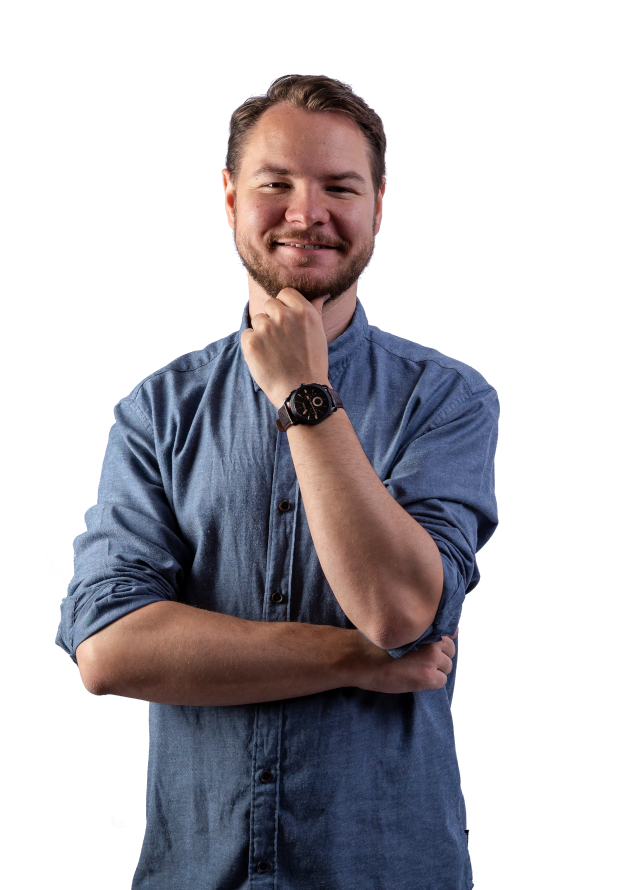
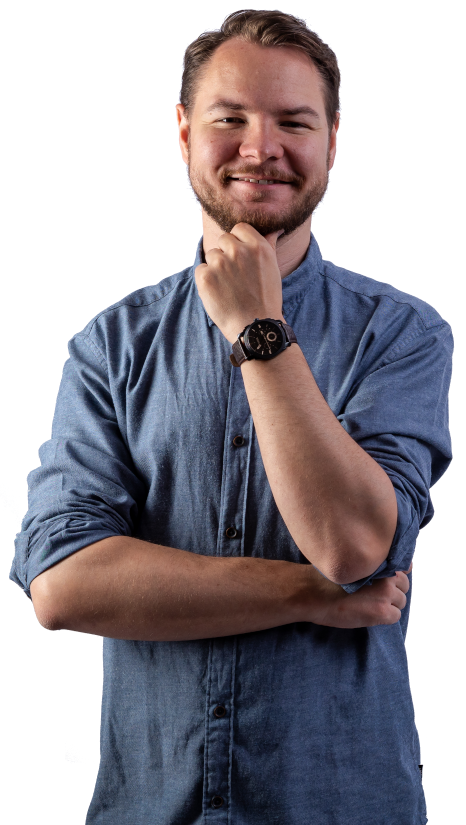
add mobile breakpoints; crop image

diff --git a/src/app/app.component.scss b/src/app/app.component.scss
@@ -1,4 +1,5 @@
 @import "../theme.scss";
+@import "../mixins.scss";
 
 .container {
   display: flex;
@@ -12,12 +13,28 @@
 }
 
 .card {
-  min-width: 50vw;
-  min-height: 50vh;
+  min-width: 70vw;
+  min-height: 70vh;
   background-color: $background;
   box-shadow: 0 0.25*$cube 0.5*$cube 0.2*$cube $background2;
   padding: 2*$cube;
   position: relative;
+
+  @include breakpoint("m") {
+    min-width: 100vw;
+    min-height: 70vh;
+  }
+
+  @include breakpoint("s") {
+    padding-left: $cube;
+    padding-right: $cube;
+  }
+
+  @include breakpoint("xs") {
+    min-height: none;
+    box-shadow: none;
+    padding-bottom: 0;
+  }
 }
 
 footer {
@@ -28,5 +45,9 @@ footer {
 
   p {
     font-size: 0.7*$cube;
+  }
+
+  @include breakpoint("xs") {
+    position: static;
   }
 }

diff --git a/src/app/card/card.component.scss b/src/app/card/card.component.scss
@@ -1,4 +1,5 @@
 @import "../../theme.scss";
+@import "../../mixins.scss";
 
 .caption {
   padding-bottom: 2*$cube;
@@ -19,6 +20,10 @@ p {
     display: block;
     margin-bottom: 0.5*$cube;
   }
+
+  @include breakpoint("xs") {
+    max-width: none;
+  }
 }
 
 a {
@@ -28,6 +33,7 @@ a {
   color: $background;
   text-decoration: none;
   padding: 0.25*$cube 0.5*$cube;
+  font-weight: 700;
 
   &:hover {
     background-color: $highlight2;
@@ -37,7 +43,17 @@ a {
 img {
   position: absolute;
   bottom: 0;
-  right: $cube;
-  max-height: 80%;
+  right: 3*$cube;
+  max-height: 85%;
   z-index: 0;
+
+  @include breakpoint("s") {
+    right: $cube;
+    max-height: 75%;
+  }
+
+  @include breakpoint("xs") {
+    position: static;
+    margin-top: $cube;
+  }
 }
